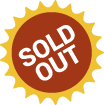
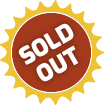
sold-out

Changed region(s): [[0.1731, 0.2, 0.7788, 0.8], [0.0865, 0.1143, 0.8942, 0.8857]]

diff --git a/layouts/index.html b/layouts/index.html
@@ -21,7 +21,7 @@
 				</div>
 		    <div class="col-sm-8 col-centered margin-top-small home-main-buttons">
 					<div class="row">
-						<img class="lasttickets home" src="/images/last-10.png" />
+						<img class="lasttickets home" src="/images/sold-out.png" />
 						<a href="/tickets/" class="btn btn-primary btn-lg green home-top full" role="button"><i class="fa fa-ticket"></i> Get your ticket</a>
 					</div>
 					<a href="/sponsors/" class="btn btn-primary btn-lg red home-top" role="button"><i class="fa fa-trophy"></i> Become a sponsor</a>

diff --git a/layouts/tickets.html b/layouts/tickets.html
@@ -26,7 +26,7 @@
 		<div class="row margin-top-small">
 			<div class="col-md-6">
 				<div class="block-item info rounded-right">
-					<img class="lasttickets" src="/images/last-10.png" />
+					<img class="lasttickets" src="/images/sold-out.png" />
 					<h4 class="bold tickets">Standard Tickets <span class="yellow">€ 400.00</span></h4>
 					(+VAT = € 480.00)<br>
 					available
